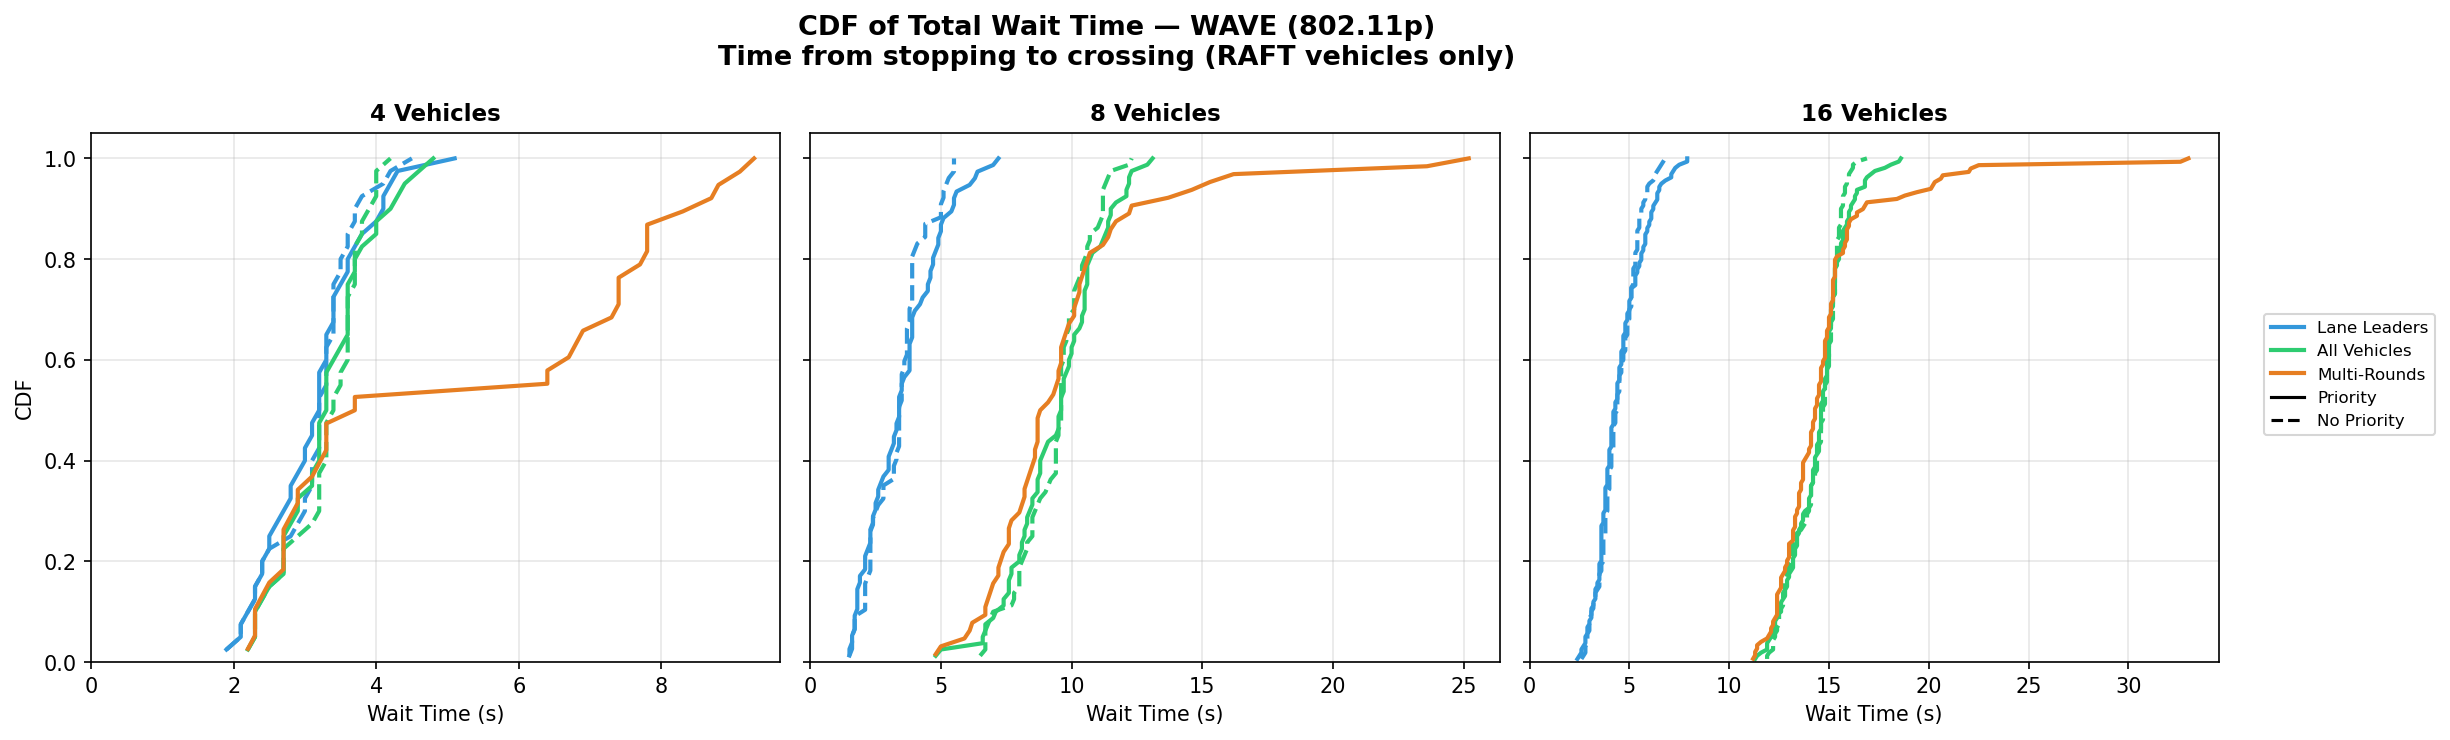
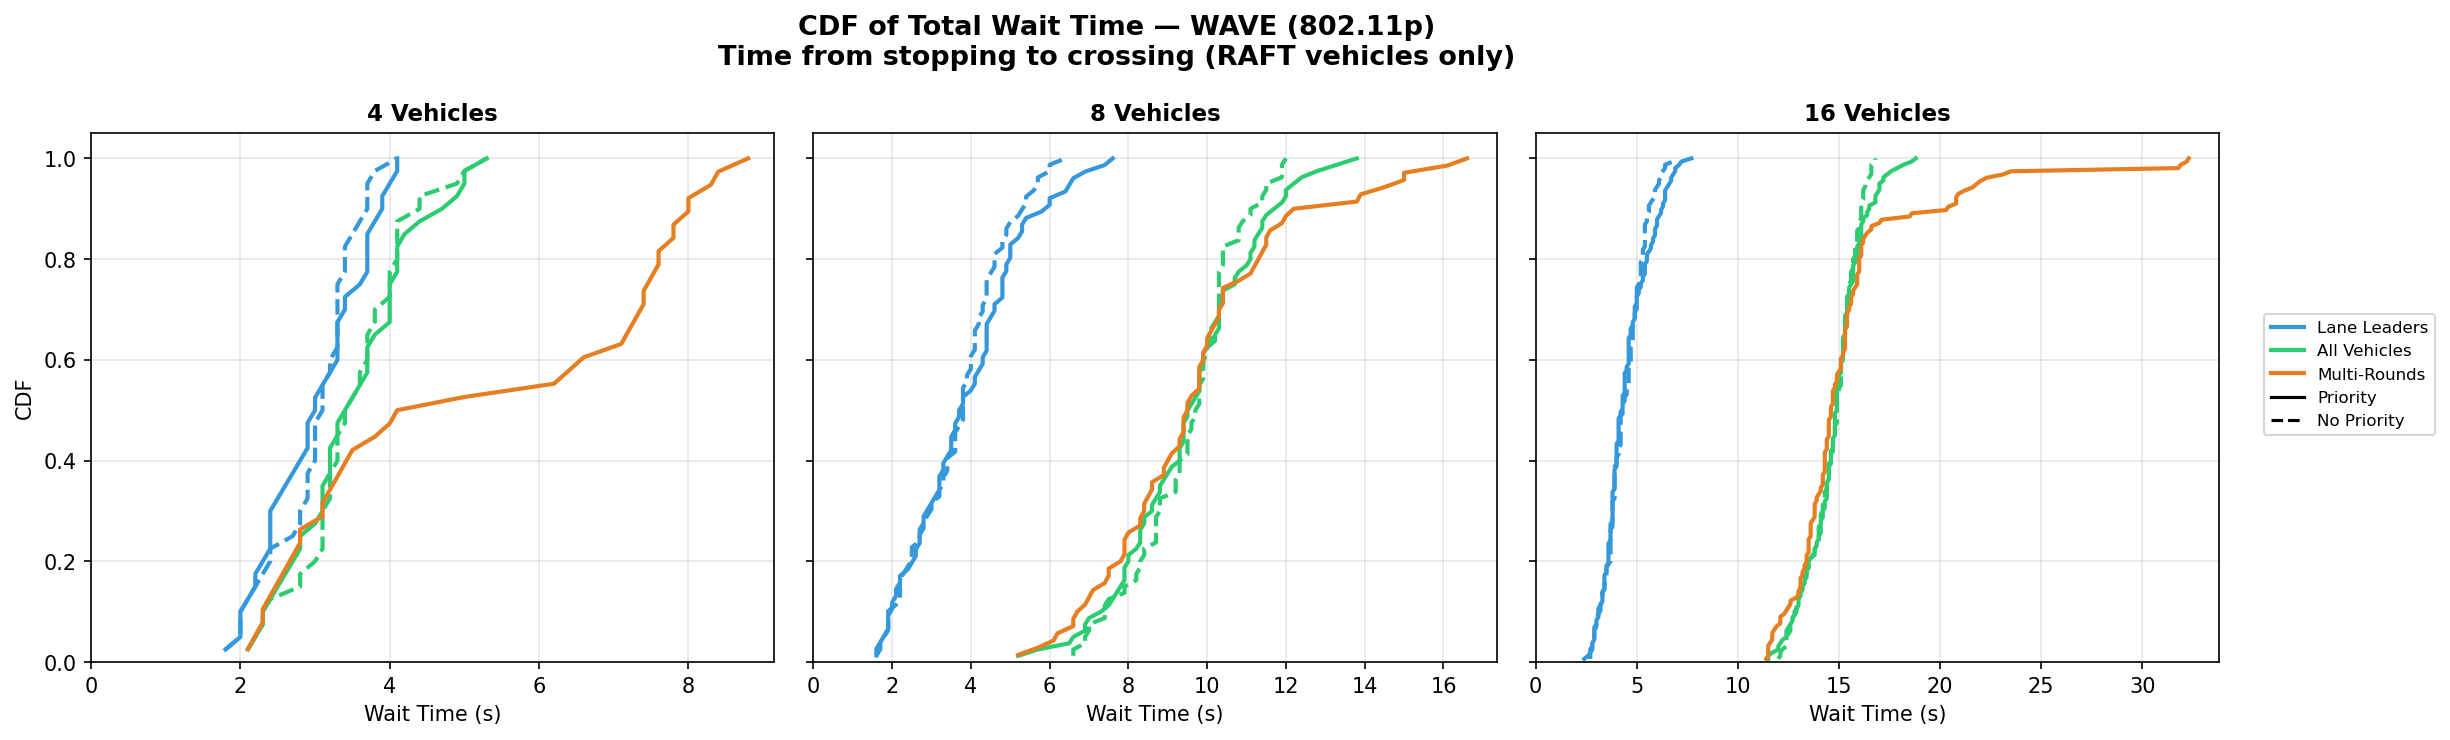
Update WAVE radio config to industry-standard DSRC values and rerun benchmarks
- txPower: 200mW → 20mW (ETSI ITS-G5 OBU typical)
- minPowerLevel: -94dBm → -110dBm (correct interference tracking floor)
- noiseFloor: -94dBm → -98dBm (thermal + 6dB noise figure)
- Add mac1609_4.queueSize = 1024 (prevent silent MAC drops under load)
- Add phy80211p.txPower = 20mW (explicit PHY-level power)
- Add connectionManagerName = "connectionManager"
- Add usePropagationDelay = true (physically correct channel model)
- Remove redundant params already handled by config.xml
- Regenerate all 9 benchmark plots with updated radio model

diff --git a/src/raft/RaftAppBase.cc b/src/raft/RaftAppBase.cc
@@ -4,7 +4,6 @@
 //   RaftCore.cc        — RAFT election, log replication, serialization, proposal submission
 //   RaftDecision.cc    — crossing-order scheduling algorithm (edit to change pass policy)
 //   RaftCoordination.cc — follower-side handlers (status response, vehicle-passed/left)
-//   RaftExit.cc        — exit notifications, batch advancement, metrics output
 //   RaftUtilities.cc   — intersection detection, movement control, fallback, gossip relay
 
 #include "raft/RaftAppBase.h"
